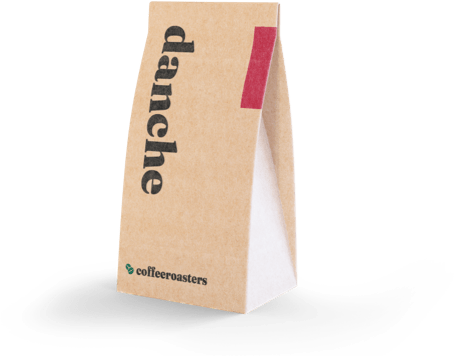
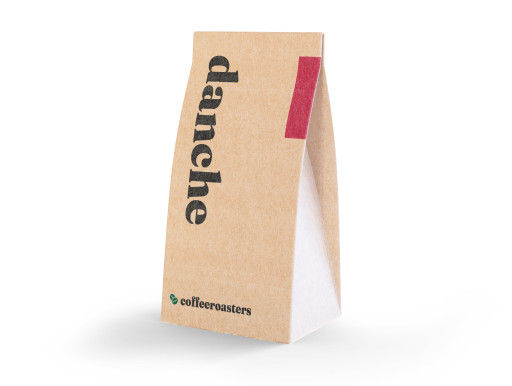
finish home mobile view
Update Header.js

Update Main.js

Create Coffee.js

Create HowItWorks.js

Create OurCollection.js

Create Step.js

Create WhyChooseUs.js

Update Nav.js

Create about.js

Create create.js

Update index.js

Update image-danche.png

Update image-gran-espresso.png

Update image-piccollo.png

Update image-planalto.png

Create image-whychooseus-bg.png

Update globals.css

Changed region(s): [[0.2159, 0.0, 0.6784, 0.927]]

diff --git a/components/home/main/WhyChooseUs.js b/components/home/main/WhyChooseUs.js
@@ -1,0 +1,66 @@
+import Feature from './Feature';
+
+const features = [
+  {
+    name: 'Best quality',
+    image: '/assets/home/desktop/icon-coffee-bean.svg',
+    imgWidth: '72',
+    imgHeight: '72',
+    alt: 'coffee bean icon',
+    description:
+      'Discover an endless variety of the world’s best artisan coffee from each of our roasters.',
+  },
+  {
+    name: 'Exclusive benefits',
+    image: '/assets/home/desktop/icon-gift.svg',
+    imgWidth: '72',
+    imgHeight: '72',
+    alt: 'gift icon',
+    description:
+      'Special offers and swag when you subscribe, including 30% off your first shipment.',
+  },
+  {
+    name: 'Free shipping',
+    image: '/assets/home/desktop/icon-truck.svg',
+    imgWidth: '72',
+    imgHeight: '50',
+    alt: 'truck icon',
+    description:
+      'We cover the cost and coffee is delivered fast. Peak freshness: guaranteed.',
+  },
+];
+
+const WhyChooseUs = () => {
+  return (
+    <section className='flex flex-col items-center w-[87.2%] text-center'>
+      <div className='flex flex-col items-center gap-6 bg-[#2C343E] rounded-[10px] px-6 pt-16 pb-[41.313rem] relative overflow-clip '>
+        <h2 className='font-h2 text-[1.75rem] leading-[1.75rem] text-light-cream'>
+          Why choose us?
+        </h2>
+        <p className='font-body text-[0.938rem] leading-[1.563rem] text-light-cream/80'>
+          A large part of our role is choosing which particular coffees will be
+          featured in our range. This means working closely with the best coffee
+          growers to give you a more impactful experience on every level.
+        </p>
+        <div className='absolute md:hidden whychoose-bg h-[40.688rem] top-[269px] w-full opacity-[0.15]'></div>
+      </div>
+      <div className='flex flex-col items-center gap-6 z-10 -mt-[37.313rem]'>
+        {features.map((feature) => {
+          return (
+            <Feature
+              key={feature.name}
+              name={feature.name}
+              image={feature.image}
+              imgWidth={feature.imgWidth}
+              imgHeight={feature.imgHeight}
+              alt={feature.alt}
+              description={feature.description}
+            />
+          );
+        })}
+      </div>
+    </section>
+  );
+};
+
+export default WhyChooseUs;

diff --git a/components/home/main/OurCollection.js b/components/home/main/OurCollection.js
@@ -1,0 +1,57 @@
+import Coffee from './Coffee';
+
+const coffeeCollection = [
+  {
+    name: 'Gran Espresso',
+    image: '/assets/home/desktop/image-gran-espresso.png',
+    alt: 'bag of gran espresso',
+    description:
+      'Light and flavorful blend with cocoa and black pepper for an intense experience',
+  },
+  {
+    name: 'Planalto',
+    image: '/assets/home/desktop/image-planalto.png',
+    alt: 'bag of planalto',
+    description:
+      'Brazilian dark roast with rich and velvety body, and hints of fruits and nuts',
+  },
+  {
+    name: 'Piccollo',
+    image: '/assets/home/desktop/image-piccollo.png',
+    alt: 'bag of piccollo',
+    description:
+      'Mild and smooth blend featuring notes of toasted almond and dried cherry',
+  },
+  {
+    name: 'Danche',
+    image: '/assets/home/desktop/image-danche.png',
+    alt: 'bag of danche',
+    description:
+      'Ethiopian hand-harvested blend densely packed with vibrant fruit notes',
+  },
+];
+
+const OurCollection = () => {
+  return (
+    <section className='flex flex-col items-center w-[87.2%] gap-[0.813rem]'>
+      <h2 className='font-title-alternate gradient-text text-[2.5rem] leading-[4.5rem] text-grey'>
+        Our Collection
+      </h2>
+      <div className='flex flex-col items-center gap-12'>
+        {coffeeCollection.map((coffee) => {
+          return (
+            <Coffee
+              key={coffee.name}
+              name={coffee.name}
+              image={coffee.image}
+              description={coffee.description}
+              alt={coffee.alt}
+            />
+          );
+        })}
+      </div>
+    </section>
+  );
+};
+
+export default OurCollection;

diff --git a/components/home/main/HowItWorks.js b/components/home/main/HowItWorks.js
@@ -1,0 +1,49 @@
+import Link from 'next/link';
+import Step from './Step';
+
+const steps = [
+  {
+    name: 'Pick your coffee',
+    num: '01',
+    alt: 'bag of gran espresso',
+    description:
+      'Select from our evolving range of artisan coffees. Our beans are ethically sourced and we pay fair prices for them. There are new coffees in all profiles every month for you to try out.',
+  },
+  {
+    name: 'Choose the frequency',
+    num: '02',
+    description:
+      'Customize your order frequency, quantity, even your roast style and grind type. Pause, skip or cancel your subscription with no commitment through our online portal.',
+  },
+  {
+    name: 'Receive and enjoy!',
+    num: '03',
+    description:
+      'We ship your package within 48 hours, freshly roasted. Sit back and enjoy award-winning world-class coffees curated to provide a distinct tasting experience.',
+  },
+];
+
+const HowItWorks = () => {
+  return (
+    <section className='w-[87.2%] gap-20 flex flex-col items-center text-center'>
+      <h2 className='font-h2 text-2xl text-grey'>How it works</h2>
+      <div className='flex flex-col items-center gap-[3.5rem]'>
+        {steps.map((step) => {
+          return (
+            <Step
+              name={step.name}
+              key={step.name}
+              num={step.num}
+              description={step.description}
+            />
+          );
+        })}
+      </div>
+      <Link href='/create'>
+        <a className='btn'>Create your plan</a>
+      </Link>
+    </section>
+  );
+};
+
+export default HowItWorks;

diff --git a/styles/globals.css b/styles/globals.css
@@ -5,7 +5,7 @@
 
 @layer base {
   .font-title-alternate {
-    @apply font-['Fraunces'] font-black text-[9.375rem] leading-[4.5rem] tracking-normal lowercase;
+    @apply font-['Fraunces'] bg-grey text-grey font-black text-[9.375rem] leading-[4.5rem] tracking-normal lowercase;
   }
 
   .font-h1 {
@@ -50,5 +50,32 @@
 
   .btn:disabled {
     @apply bg-[#E2DEDB];
+  }
+
+  .whychoose-bg {
+    background: url('/assets/home/mobile/image-whychooseus-bg.png') no-repeat
+      top center;
+    background-size: cover;
+  }
+
+  #home header {
+    background: url('/assets/home/mobile/image-hero-coffeepress.jpg') no-repeat
+      top center;
+    background-size: cover;
+  }
+}
+
+@layer utilities {
+  .gradient-text {
+    background-image: linear-gradient(
+      to bottom,
+      rgba(254, 252, 247, 0.0001),
+      rgba(254, 252, 247, 1)
+    );
+    background-size: 100%;
+    -webkit-background-clip: text;
+    -moz-background-clip: text;
+    -webkit-text-fill-color: transparent;
+    -moz-text-fill-color: transparent;
   }
 }

diff --git a/components/Home/Header.js b/components/Home/Header.js
@@ -1,5 +1,23 @@
+import Link from 'next/link';
+
 const Header = () => {
-    return (  );
-}
- 
+  return (
+    <header className='w-[87.2%] flex flex-col items-center text-center mb-[7.5rem] rounded-[10px] px-6 py-[6.25rem] gap-10'>
+      <div className='flex flex-col items-center gap-6'>
+        <h1 className='font-h1 text-[2.5rem] leading-[2.5rem] text-light-cream '>
+          Great coffee made simple.
+        </h1>
+        <p className='font-body text-[0.938rem] leading-[1.563rem] text-light-cream/80'>
+          Start your mornings with the world’s best coffees. Try our expertly
+          curated artisan coffees from our best roasters delivered directly to
+          your door, at your schedule.
+        </p>
+      </div>
+      <Link href='/create'>
+        <a className='btn'>Create your plan</a>
+      </Link>
+    </header>
+  );
+};
+
 export default Header;

diff --git a/components/home/main/Feature.js b/components/home/main/Feature.js
@@ -1,0 +1,19 @@
+import Image from 'next/image';
+
+const Feature = ({ name, image, description, alt, imgWidth, imgHeight }) => {
+  return (
+    <div className='flex flex-col gap-[3.5rem] w-[85.32%] bg-dark-cyan rounded-lg pt-[4.5rem] pb-[3.188rem] px-[0.75rem]'>
+      <div>
+        <Image src={image} width={imgWidth} height={imgHeight} alt={alt} />
+      </div>
+      <div className='flex flex-col items-center gap-6'>
+        <h3 className='font-h3 text-[1.5rem] leading-[2rem] text-light-cream'>
+          {name}
+        </h3>
+        <p className='w-[83.14%] font-body text-light-cream'>{description}</p>
+      </div>
+    </div>
+  );
+};
+
+export default Feature;

diff --git a/components/home/main/Coffee.js b/components/home/main/Coffee.js
@@ -1,0 +1,19 @@
+import Image from 'next/image';
+
+const Coffee = ({ name, image, description, alt }) => {
+  return (
+    <div className='flex flex-col items-center gap-6'>
+      <Image width={200} height={151} src={image} alt={alt} />
+      <div className='flex flex-col items-center text-center gap-4 w-[86.24%]'>
+        <h3 className='font-h3 text-[1.5rem] leading-8 text-dark-grey-blue'>
+          {name}
+        </h3>
+        <p className='font-body text-[0.938rem] leading-[1.563rem]'>
+          {description}
+        </p>
+      </div>
+    </div>
+  );
+};
+
+export default Coffee;

diff --git a/components/home/main/Step.js b/components/home/main/Step.js
@@ -1,0 +1,17 @@
+const Step = ({ name, num, description }) => {
+  return (
+    <div className='flex flex-col items-center gap-6 w-full'>
+      <div className='font-h1 text-pale-orange'>{num}</div>
+      <div className='flex flex-col items-center gap-6'>
+        <h3 className='font-h3 text-dark-grey-blue text-[1.75rem] leading-[2rem]'>
+          {name}
+        </h3>
+        <p className='font-body text-[0.938rem] leading-[1.563rem] text-dark-grey-blue'>
+          {description}
+        </p>
+      </div>
+    </div>
+  );
+};
+
+export default Step;

diff --git a/components/Home/Main.js b/components/Home/Main.js
@@ -1,5 +1,15 @@
+import HowItWorks from './main/HowItWorks';
+import OurCollection from './main/OurCollection';
+import WhyChooseUs from './main/WhyChooseUs';
+
 const Main = () => {
-    return (  );
-}
- 
+  return (
+    <main className='flex flex-col items-center w-full gap-[7.5rem] mb-[7.5rem]'>
+      <OurCollection />
+      <WhyChooseUs />
+      <HowItWorks />
+    </main>
+  );
+};
+
 export default Main;

diff --git a/pages/index.js b/pages/index.js
@@ -1,10 +1,12 @@
+import Header from '../components/home/Header';
+import Main from '../components/home/Main';
+
 const Home = () => {
   return (
-    <>
-      <h1 className='font-bold underline text-blue-200 font-h1'>
-        Hello world!
-      </h1>
-    </>
+    <div id='home' className='flex flex-col items-center w-full'>
+      <Header />
+      <Main />
+    </div>
   );
 };
 

diff --git a/components/Nav.js b/components/Nav.js
@@ -3,7 +3,7 @@ import Image from 'next/image';
 
 const Nav = () => {
   return (
-    <nav className='py-8 flex justify-between items-center w-[87.2%]'>
+    <nav className='py-8 flex justify-between items-center w-[87.2%] mb-2'>
       <Link href='/'>
         <a>
           <Image

diff --git a/pages/create.js b/pages/create.js
@@ -1,0 +1,5 @@
+const Create = () => {
+  return <>Create</>;
+};
+
+export default Create;
